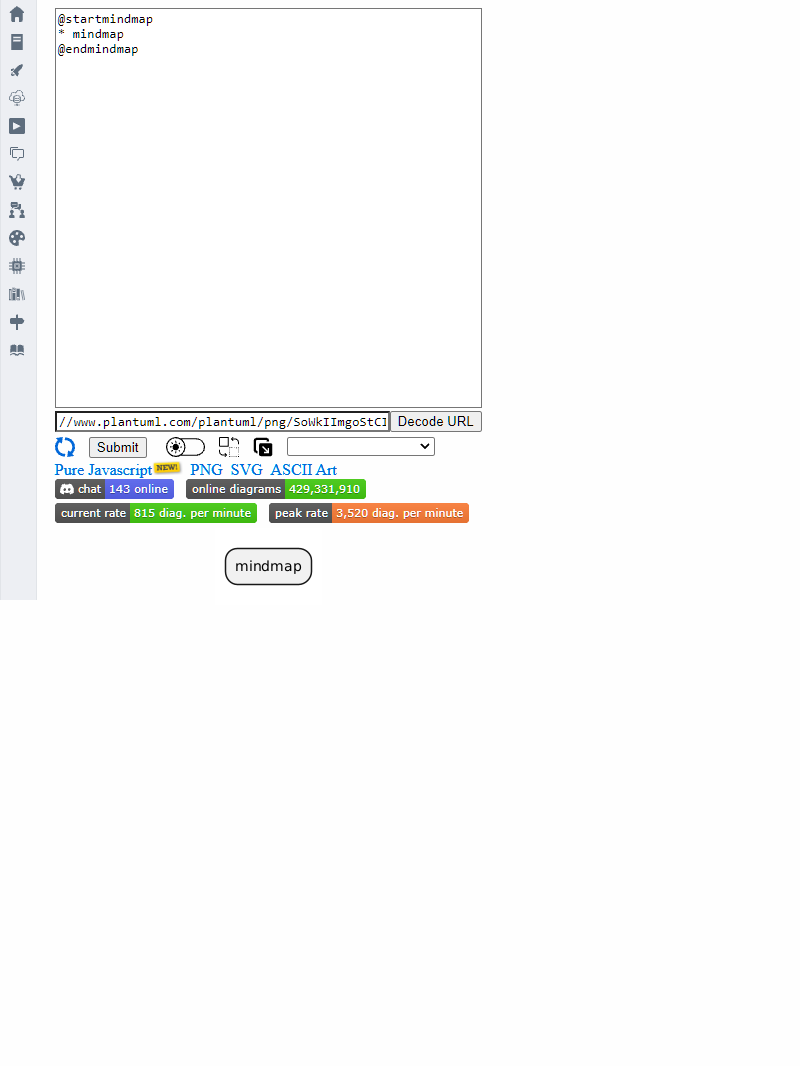
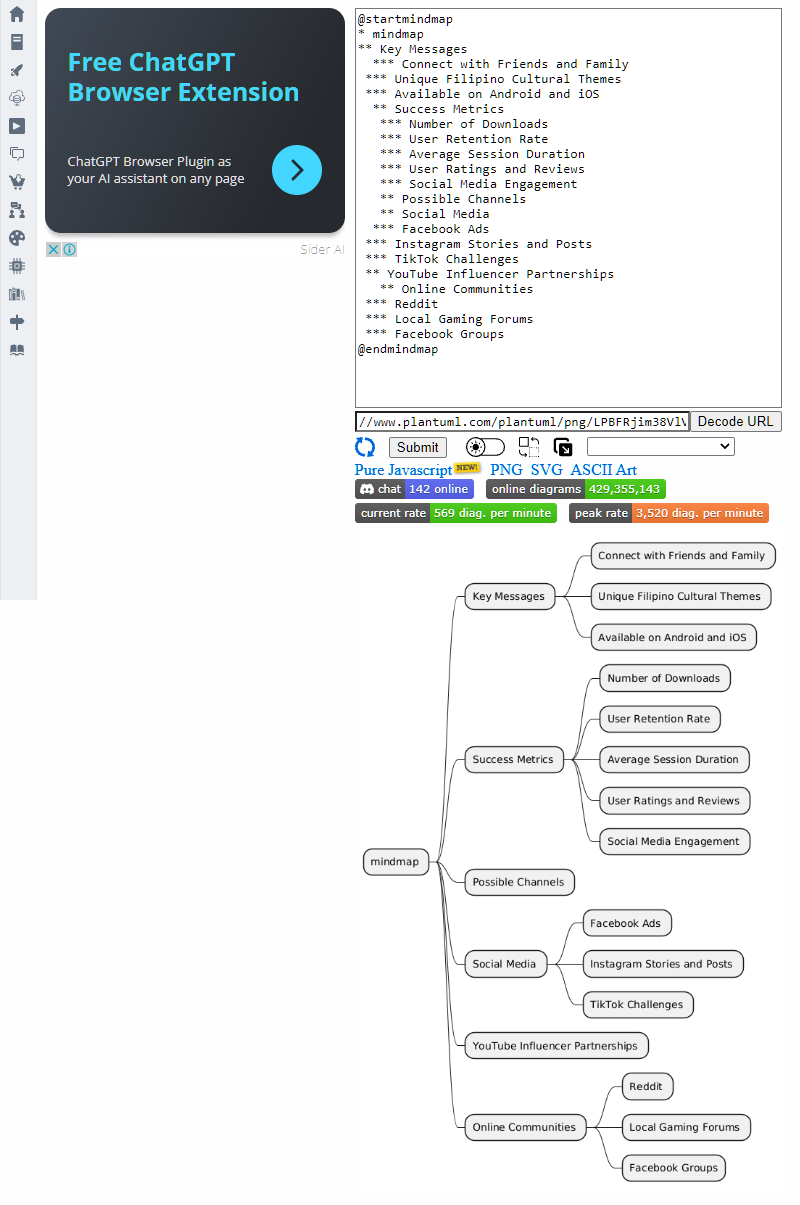
change the styling so the bottom of page looks better

diff --git a/my-project/src/app/page.tsx b/my-project/src/app/page.tsx
@@ -1,7 +1,7 @@
 "use client";
 import { useForm } from "react-hook-form";
 import { IoSendSharp } from "react-icons/io5";
-import { useState } from "react";
+import { useRef, useState } from "react";
 import Image from "next/image";
 
 import useSWR from "swr";
@@ -40,9 +40,11 @@ export function ChatWindow() {
 // ----------------- Contact API STUFF ------------------------/
 
 export default function Home() {
+  const [isGenerating, setIsGenerating] = useState(false);
   const [imgURL, setImgURL] = useState("");
 
-  const mindmapstring = `\n* mindmap`;
+  const mindmapstring = `\n* mindmap \n** Key Messages \n  *** Connect with Friends and Family \n *** Unique Filipino Cultural Themes \n *** Available on Android and iOS \n  ** Success Metrics \n   *** Number of Downloads \n   *** User Retention Rate \n   *** Average Session Duration \n   *** User Ratings and Reviews \n   *** Social Media Engagement \n   ** Possible Channels \n   ** Social Media \n  *** Facebook Ads \n *** Instagram Stories and Posts \n *** TikTok Challenges \n ** YouTube Influencer Partnerships \n   ** Online Communities \n *** Reddit \n *** Local Gaming Forums \n *** Facebook Groups`;
+
   const startstring = "@startmindmap";
   const endstring = "\n@endmindmap";
   const mindmapstring2 = "";
@@ -69,6 +71,8 @@ export default function Home() {
   async function generateMindmap(e: String) {
     const mindmapstring = e;
 
+    setIsGenerating(true);
+
     const res = await fetch("/api/puppeteer", {
       method: "POST",
       body: JSON.stringify({ mindmapstring }),
@@ -78,6 +82,8 @@ export default function Home() {
     });
     const results = await res.json();
     setImgURL(results.imgURL);
+    setIsGenerating(false);
+    scrollToElement();
   }
 
   async function processPrompt(e: String) {
@@ -101,8 +107,8 @@ export default function Home() {
         const mindmap = startstring + mindmapstring + endstring;
 
         generateMindmap(mindmap);
-        chats.push(mindmap);
-        setChats([...chats]);
+        // chats.push(mindmap);
+        // setChats([...chats]);
       } catch (error) {
         console.error("An error occured", error);
         setPromptLoadingError(true);
@@ -136,15 +142,24 @@ export default function Home() {
 
     setFormData({ chatText: "" });
 
+    scrollToElement();
+
     return await response.json();
   }
+  const bottomAnchor = useRef<HTMLHeadingElement>(null);
+
+  const scrollToElement = () => {
+    if (bottomAnchor.current) {
+      bottomAnchor.current.scrollIntoView({ behavior: "smooth" });
+    }
+    console.log("Scrolling");
+  };
 
   // ----------------- Home Page ------------------------/
-
   return (
     <>
       <div>
-        <div className="fixed bottom-0 w-full border-2 flex justify-between">
+        <div className="fixed bottom-0 w-full border-2 flex justify-between bg-white">
           <form onSubmit={saveChat}>
             <input
               required
@@ -167,7 +182,7 @@ export default function Home() {
             </div>
           </button>
         </div>
-        <div>
+        <div className=" mb-32">
           <ChatWindow />
           {chats.map((chat) => (
             <div>
@@ -176,6 +191,8 @@ export default function Home() {
           ))}
           {promptLoading && <div>Loading ...</div>}
           {promptLoadingError && <div>An error occured.</div>}
+          {isGenerating && <div>Generating...</div>}
+
           {imgURL && (
             <div>
               <Image
@@ -187,6 +204,8 @@ export default function Home() {
               />
             </div>
           )}
+
+          <h1 ref={bottomAnchor}></h1>
         </div>
       </div>
     </>
